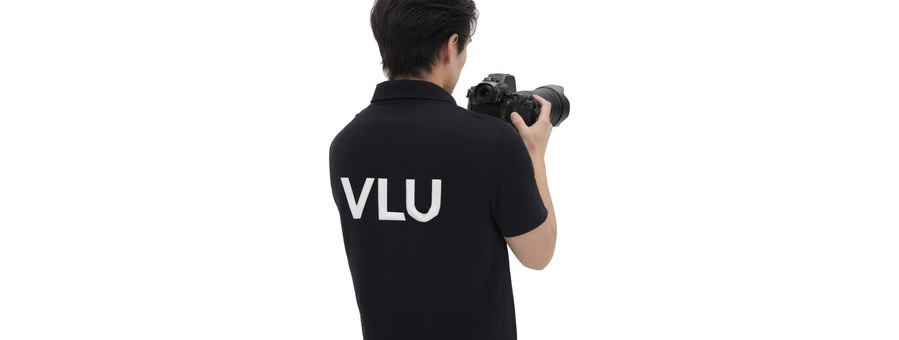
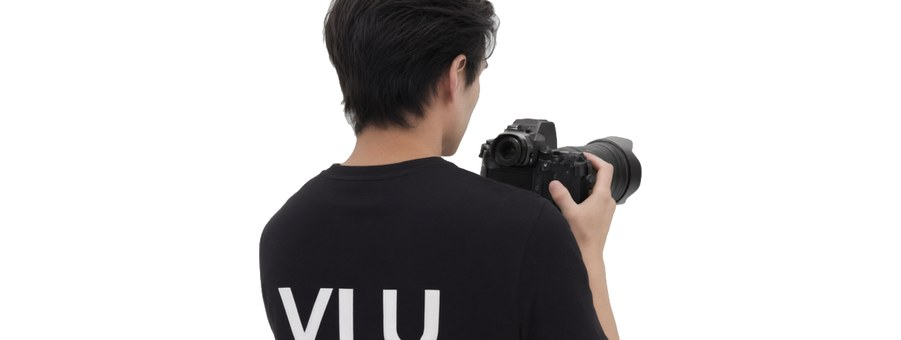
style: new photographer headshot, person left text right-center

Changed region(s): [[0.2803, 0.0, 0.7164, 1.0]]

diff --git a/src/components/home-v8/home-v8.css b/src/components/home-v8/home-v8.css
@@ -575,7 +575,10 @@ html:has(.home-v8) { scrollbar-color: #d3d3d8 #f4f4f5; }
 .v8-svc__card--skyline .v8-svc__card-t { padding: 16px 12px 0; }
 .v8-svc__card--skyline .v8-svc__imgbox { margin-top: 8px; }
 .v8-svc__card--skyline .v8-svc__imgbox img { object-fit: cover; object-position: center bottom; }
-.v8-svc__card--photog .v8-svc__imgbox img { object-fit: cover; object-position: center bottom; }
+.v8-svc__card--photog { flex-direction: row-reverse; align-items: center; justify-content: flex-start; }
+.v8-svc__card--photog .v8-svc__card-t { flex: 1; padding: 0 16px; text-align: center; }
+.v8-svc__card--photog .v8-svc__imgbox { width: 58%; margin-top: 0; align-self: stretch; }
+.v8-svc__card--photog .v8-svc__imgbox img { object-position: center bottom; }
 .v8-svc__card-t {
   display: block; padding: 16px 12px 12px; font-size: 14px; font-weight: 600;
   letter-spacing: -.01em; color: rgba(0, 0, 0, .85);
